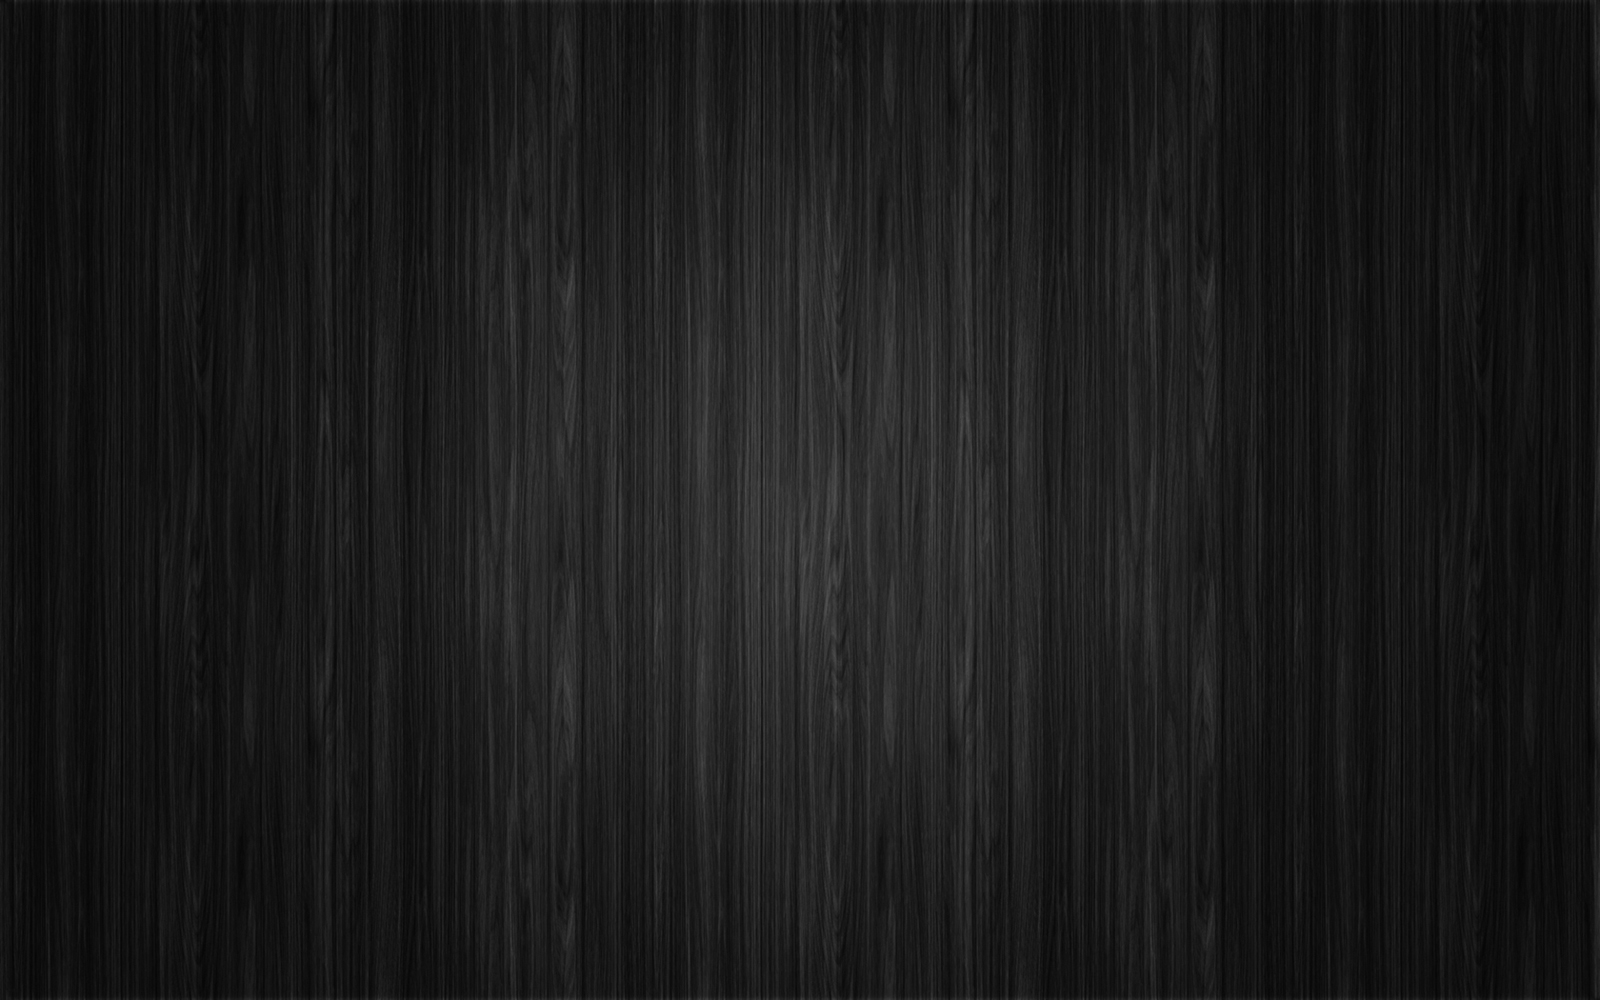
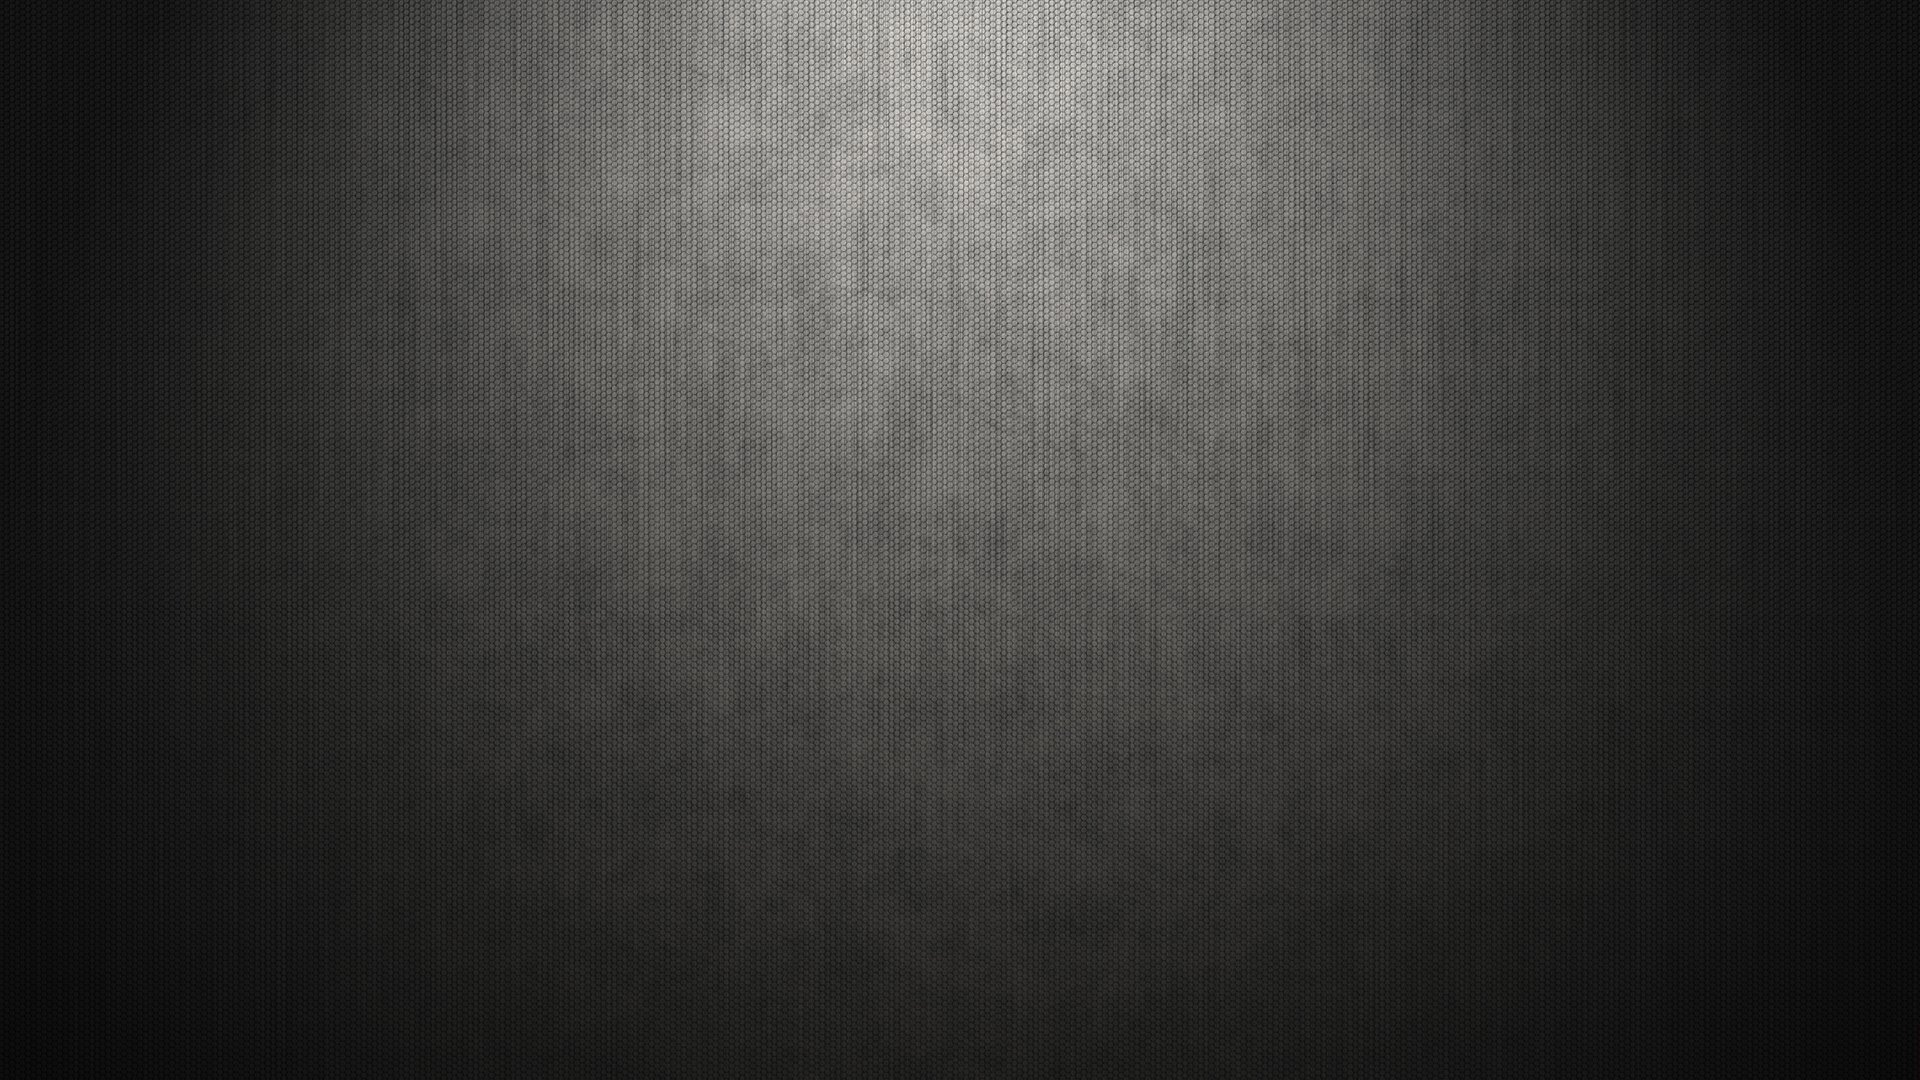
Otimização do Acesso ao Banco de Dados
- Otimização do Acesso ao Banco de Dados
- Nova SplashScreen com novas localizações
- Alterado o BG padrão do sistema.
- Adicionada nova tela de login ***experimental***

diff --git a/src/br/com/fpimentel/util/SplashBG.java b/src/br/com/fpimentel/util/SplashBG.java
@@ -1,0 +1,95 @@
+package br.com.fpimentel.util;
+
+import javax.swing.JDesktopPane;
+import javax.swing.JLabel;
+import javax.swing.JWindow;
+
+import br.com.fpimentel.Janela;
+import br.com.fpimentel.enums.TipoInfoSplash;
+
+import javax.swing.SwingConstants;
+
+import java.awt.Color;
+import java.awt.Cursor;
+import java.awt.Font;
+import java.awt.Point;
+import java.awt.Toolkit;
+
+public class SplashBG implements Runnable{
+
+	public JWindow splJanela = new JWindow();
+	JDesktopPane painel = new JDesktopPane();
+	JLabel lblInfoIMG = new JLabel();
+	JLabel lblInfoMSG = new JLabel();
+
+	public void mudarIconeMensagem(TipoInfoSplash tipoMensagem){
+		if(tipoMensagem == TipoInfoSplash.acessoDB){
+			lblInfoIMG.setIcon(Arquivos.buscarIcone("img/database.png"));
+		}
+		else if(tipoMensagem == TipoInfoSplash.sucesso){
+			lblInfoIMG.setIcon(Arquivos.buscarIcone("img/world.png"));
+		}
+	}
+	public void mudaMensagem(String mensagem, TipoInfoSplash tipoMensagem){
+		lblInfoMSG.setText(mensagem);
+		this.mudarIconeMensagem(tipoMensagem);
+		splJanela.repaint();
+	}
+	
+	/**
+	 * @wbp.parser.entryPoint
+	 */
+	@Override
+	public void run() {
+		lblInfoIMG.setHorizontalAlignment(SwingConstants.LEFT);
+		painel.add(lblInfoIMG);
+		lblInfoIMG.setFont(new Font("Tahoma", Font.PLAIN, 11));
+		lblInfoIMG.setBounds(68, 325, 23, 25);
+		
+		lblInfoMSG.setHorizontalAlignment(SwingConstants.LEFT);
+		painel.add(lblInfoMSG);
+		lblInfoMSG.setFont(new Font("Tahoma", Font.PLAIN, 11));
+		lblInfoMSG.setBounds(115, 325, 329, 25);
+		
+		Cursor c = Toolkit.getDefaultToolkit().createCustomCursor(
+				Toolkit.getDefaultToolkit().createImage(""),new Point(splJanela.getX(), splJanela.getY()), "Cursor");
+		splJanela.setCursor(c);
+		splJanela.setSize(419, 419);
+		splJanela.setLocationRelativeTo(null);
+		splJanela.setBackground(new Color(0, 0, 0, 0));
+		
+		painel.setBackground(new Color(0, 0, 0, 0));
+		
+		JLabel lblNewLabel = new JLabel(Janela.versaoPrograma);
+		painel.add(lblNewLabel);
+		lblNewLabel.setFont(new Font("Tahoma", Font.PLAIN, 15));
+		lblNewLabel.setBounds(159, 67, 85, 25);
+		
+		JLabel lblImgLoad = new JLabel("");
+		lblImgLoad.setHorizontalAlignment(SwingConstants.CENTER);
+		lblImgLoad.setIcon(Arquivos.buscarIcone("img/loader.gif"));
+		lblImgLoad.setBounds(152, 161, 128, 137);
+		painel.add(lblImgLoad);
+		
+		JLabel splashImg = new JLabel();
+		splashImg.setLocation(10, 11);
+		splashImg.setHorizontalAlignment(SwingConstants.CENTER);
+		splashImg.setIcon(Arquivos.buscarIcone("img/blueGarnet_SPLASH.png"));
+		splashImg.setSize(422, 409);
+		painel.add(splashImg);
+		
+		splJanela.getContentPane().add(painel);
+		splJanela.setOpacity(0.05f);
+		splJanela.setVisible(true);
+		
+		for(int i= 1; i <= 50; i++){
+			try {
+				splJanela.setOpacity(0.02f * i);
+				Thread.sleep(40);
+				splJanela.repaint();
+			} catch (InterruptedException e) {
+			    e.printStackTrace();
+			}
+		}	
+	}
+}
